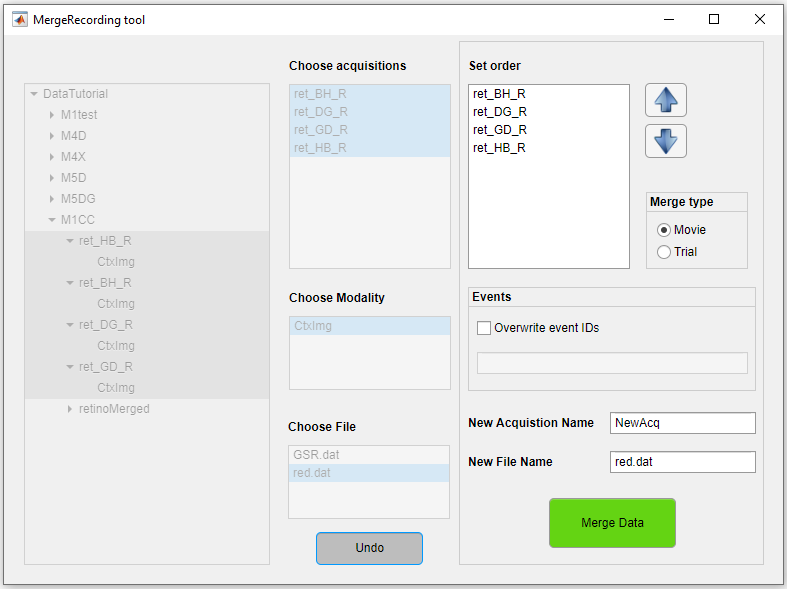
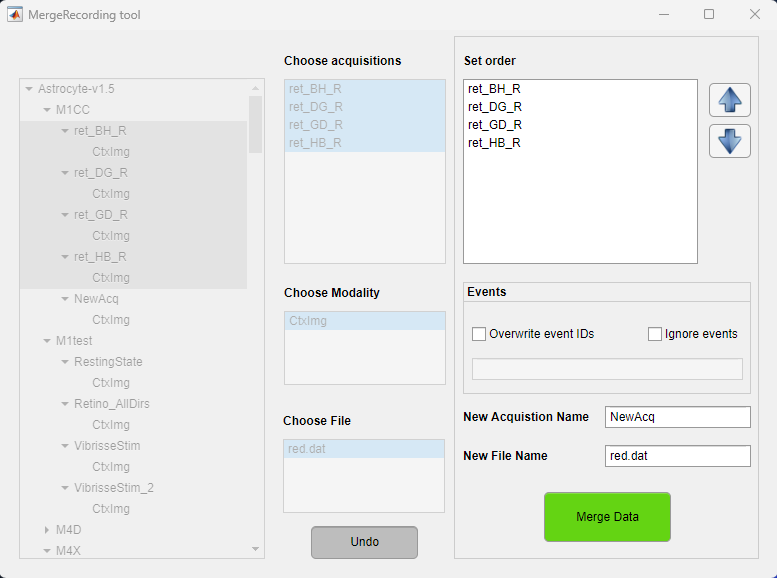
doc: updated MergeRecorging app documentation

Changed region(s): [[0.0, 0.0, 1.0, 1.0], [0.3398, 0.7163, 0.7104, 0.9031], [0.8031, 0.3114, 0.9266, 0.4671]]

diff --git a/docs/documentation/userDocs/MergeRecs.html b/docs/documentation/userDocs/MergeRecs.html
@@ -7,6 +7,21 @@
       ul {
         line-height: 1.5;
       }
+      table {
+    border-collapse: collapse;
+    width: 300px;
+    border: 2px solid black;
+  }
+
+  th, td {
+    border: 1px solid black;
+    padding: 8px;
+    text-align: center;
+  }
+
+  th {
+    background-color: #f2f2f2;
+  }
     </style>
     <title>MergeRec tool</title>
   </head>
@@ -61,24 +76,22 @@
     </p>
     <p style="text-align: center">
       <img src="../assets/img/MergeRec_fig5.png" alt="MergeRec_fig5" width="660">
-    </p>
-    <h4 id="7-select-merge-type">7. Select merge type</h4>
-    <p> Select the type of merge in the <i>merge type</i> panel.</p>
+    </p>    
+    <h4 id="7-events">7. Events</h4>
     <p>
-      This tool provides two types of merge: <b>movie</b> or <b>trial</b>. The <b>movie</b> type consists of the concatenation of the data in the time domain. Whereas the <b>trial</b> type considers the data as trials and concatenate them in the Event dimension. For instance, for image time series with dimensions Y,X,T concatenated as trials, the resulting file will have the dimensions E,Y,X,T where the length of <b>E</b> is the number of files.
+      In the <i>events</i> panel, one can either overwrite the events IDs from the source recordings or ignore the content of the <samp>events.mat</samp> files. New event IDs should be separated by ";".
     </p>
-    <h4 id="8-events">8. Events</h4>
     <p>
-      In the <i>Events</i> panel, you can check the box <i>Overwrite event IDs</i> to add identifiers to mark the frames from the original acquisitions in the merged file. Sometimes this information is necessary for the analysis. For instance, in the example depicted here, the recordings must have a specific identifier encoding the direction of a visual stimulus. Write the new indentifiers separated by ";".
+      It is worth noting that indepedently of the options selected, an <samp>events.mat</samp> file will be created in the merged recording folder. Here is how the events are managed:
     </p>
+    <ul>
+      <li><b>Source files already have <samp>events.mat</samp> files:</b> Here, the new <samp>events.mat</samp> file will contain the concatenation of the events from the source files.</li>
+      <li><b>Source files do not have <samp>events.mat</samp> files:</b> Here, the new <samp>events.mat</samp> file will simply mark the first and last frames from the source recordings in the merged one.</li>
+    </ul>        
     <p style="text-align: center">
       <img src="../assets/img/MergeRec_fig6.png" alt="MergeRec_fig6" width="660">
     </p>
-    <div class="infonote">
-      <p><strong>Note</strong><br>
-        If there are triggers already stored in the data's meta data file, they will be automatically concatenated. In this case, to preserve this information, leave the box unchecked.
-      </p>
-    </div>
+    
     <h4 id="9-id-new-data">9. Identify the new acquisition and file</h4>
     <p>
       Type the name of the acquisition that will contain the merged file. If the acquisition already exists, the merged file will be stored in the modality folder inside it. Then, type the name of the merged file.
